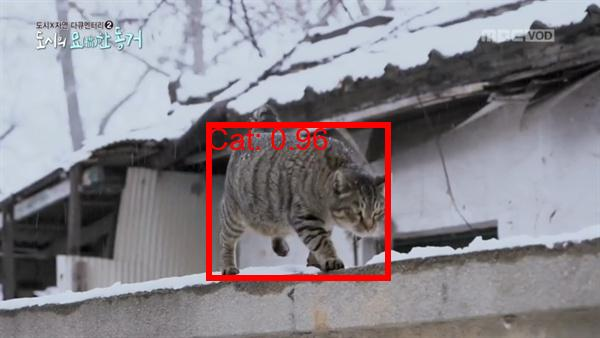
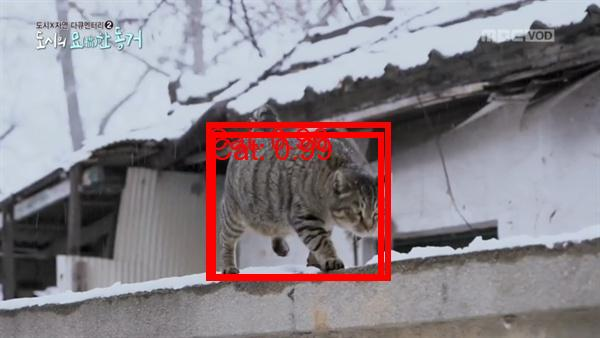
modified

Changed region(s): [[0.33, 0.355, 0.66, 0.8284]]

diff --git a/imgProcess.py b/imgProcess.py
@@ -1,71 +1,131 @@
-import matplotlib.pyplot as plt
-import cv2
-from inference_sdk import InferenceHTTPClient
+import tensorflow as tf
+import tensorflow_hub as hub
+import numpy as np
+from PIL import Image, ImageDraw, ImageFont, ImageOps
+import time
+import os
 
-def prc(img_path):
-    CLIENT = InferenceHTTPClient(
-        api_url="https://detect.roboflow.com",
-        api_key="EJA9JwWYfAVqqZ3kLOhz"
-    )
+# 이미지 로드 및 전처리 함수
+def load_img(path):
+    img = Image.open(path)  # PIL Image로 로드
+    img = ImageOps.exif_transpose(img)  # EXIF 데이터를 기반으로 이미지 방향 보정
+    img = img.convert('RGB')  # RGB 모드로 변환
+    img = tf.convert_to_tensor(np.array(img))  # 텐서로 변환
+    return img
 
-    # 탐지된 이미지 저장
-    result = CLIENT.infer(img_path, model_id="garbage-detection-sht1u/4")
+# 객체 탐지 실행 함수
+def run_detector(detector, img_path):
+    img = load_img(img_path)
+    converted_img = tf.image.convert_image_dtype(img, tf.float32)[tf.newaxis, ...]
 
-    textList = []
+    start_time = time.time()
+    result = detector(converted_img)
+    end_time = time.time()
 
-    if 'predictions' in result:
-        for prediction in result['predictions']:
-            textList.append([prediction['class'], round(prediction['confidence'], 2) * 100])
+    result = {key: value.numpy() for key, value in result.items()}
 
-    if not textList:
-        return "Fail, 0"
+    print(f"Found {len(result['detection_scores'])} objects.")
+    print(f"Inference time: {end_time - start_time:.2f} seconds")
 
+    return img, result
+
+def draw_boxes(image, result):
+    draw = ImageDraw.Draw(image)
+
+    # 이미지 크기에 따라 폰트 크기와 선 두께 조정
+    font_size = int(image.width / 20)  # 이미지 가로 크기의 1/20을 폰트 크기로 설정
+    line_width = int(image.width / 100)  # 이미지 가로 크기의 1/100을 선 두께로 설정
+
+    try:
+        font = ImageFont.truetype('arial.ttf', size=font_size)
+    except IOError:
+        font = ImageFont.load_default()
+        print("경고: 'arial.ttf' 폰트를 찾을 수 없어 기본 폰트로 대체합니다.")
+
+    scores = result['detection_scores']
+    boxes = result['detection_boxes']
+    classes = result['detection_class_entities']
+
+    if np.isscalar(scores):
+        print("Warning: scores is a scalar value. No boxes will be drawn.")
+        return image
+
+    for score, box, class_entity in zip(scores, boxes, classes):
+        if score > 0.5:
+            ymin, xmin, ymax, xmax = box
+            (left, right, top, bottom) = (xmin * image.width, xmax * image.width,
+                                          ymin * image.height, ymax * image.height)
+            draw.rectangle((left, top, right, bottom), outline='red', width=line_width)
+            label = f"{class_entity.decode('utf-8')}: {score:.2f}"
+            draw.text((left, top), label, font=font, fill='red')
+
+    return image
+
+def prc(imgPath):
+    # GPU 설정
+    gpus = tf.config.experimental.list_physical_devices('GPU')
+    if gpus:
+        try:
+            for gpu in gpus:
+                tf.config.experimental.set_memory_growth(gpu, True)
+            print("GPU is available and configured")
+        except RuntimeError as e:
+            print(e)
     else:
-        probability = 0
-        text = ""
+        print("No GPU found. Using CPU.")
 
-        for a in textList:
-            text += a[0] + " "
-            probability += a[1]
+    # 객체 탐지 모델 로드
+    module_handle = "https://tfhub.dev/google/faster_rcnn/openimages_v4/inception_resnet_v2/1"
+    print("모델을 로드 중입니다...")
+    detector = hub.load(module_handle).signatures['default']
+    print("모델 로드 완료.")
 
-        average_probability = probability / len(textList)
+    try:
+        # 메인 실행 코드
+        image_path = imgPath
+        img, result = run_detector(detector, image_path)
 
-        # 이미지 출력
-        img = cv2.imread(img_path)
-        
-        for prediction in result['predictions']:
-            # 바운딩 박스 좌표 수정
-            x_center = int(prediction['x'])  # 중심 x
-            y_center = int(prediction['y'])  # 중심 y
-            width = int(prediction['width'])  # 너비
-            height = int(prediction['height'])  # 높이
-            
-            # 좌측 상단과 우측 하단 좌표 계산
-            x1 = x_center - (width // 2)  # 좌측 상단 x
-            y1 = y_center - (height // 2)  # 좌측 상단 y
-            x2 = x_center + (width // 2)  # 우측 하단 x
-            y2 = y_center + (height // 2)  # 우측 하단 y
-            
-            print("bounding box 좌표:", x1, y1, x2, y2)
+        # 결과 시각화
+        img_with_boxes = draw_boxes(Image.fromarray(img.numpy()), result)
 
-            label = prediction['class']
-            confidence = round(prediction['confidence'], 2) * 100
+        # 결과 이미지 저장
+        img_with_boxes.save(imgPath)
+        print(f"결과 이미지가 {imgPath}에 저장되었습니다.")
 
-            # 이미지에 bounding box 그리기
-            cv2.rectangle(img, (int(x1), int(y1)), (int(x2), int(y2)), (0, 255, 0), 2)
-            cv2.putText(img, f"{label}: {confidence:.2f}%", (int(x1), int(y1) - 10), cv2.FONT_HERSHEY_SIMPLEX, 0.7, (0, 0, 0), 2)
+        # 고양이 관련 클래스 식별
+        scores = result['detection_scores']
+        classes = result['detection_class_entities']
+        detected_classes = []
+        detected_scores = []
+        cat_detected = False
 
-            # 이미지 저장
-            cv2.imwrite(img_path, img)
+        for score, class_entity in zip(scores, classes):
+            if score > 0.5:
+                class_name = class_entity.decode('utf-8').lower()
+                detected_classes.append(class_name)
+                detected_scores.append(f"{score:.2f}")
+                if 'cat' in class_name:
+                    cat_detected = True
 
-        # # 이미지 출력
-        # plt.imshow(cv2.cvtColor(img, cv2.COLOR_BGR2RGB))
-        # plt.axis('off')
-        # plt.show()
+        if cat_detected:
+            result_str = "Success, " + ", ".join([f"{cls}: {sc}" for cls, sc in zip(detected_classes, detected_scores)])
+        else:
+            result_str = "Fail, " + ", ".join([f"{cls}: {sc}" for cls, sc in zip(detected_classes, detected_scores)])
 
-        return f"Success, {average_probability:.2f}, {text}"
+        return result_str
 
-# 사용 예시
+    except Exception as e:
+        print(f"오류가 발생했습니다: {str(e)}")
+        import traceback
+        traceback.print_exc()
+        return f"Error: {str(e)}"
+
 if __name__ == "__main__":
-    print("1")
-    print(prc('aiTest/t.jpg'))
+    try:
+        imgPath = os.path.join('temp', "n.jpg")
+        result = prc(imgPath=imgPath)
+        print(result)
+    except Exception as e:
+        print(f"프로그램 실행 중 오류가 발생했습니다: {str(e)}")
+        import traceback
+        traceback.print_exc()
